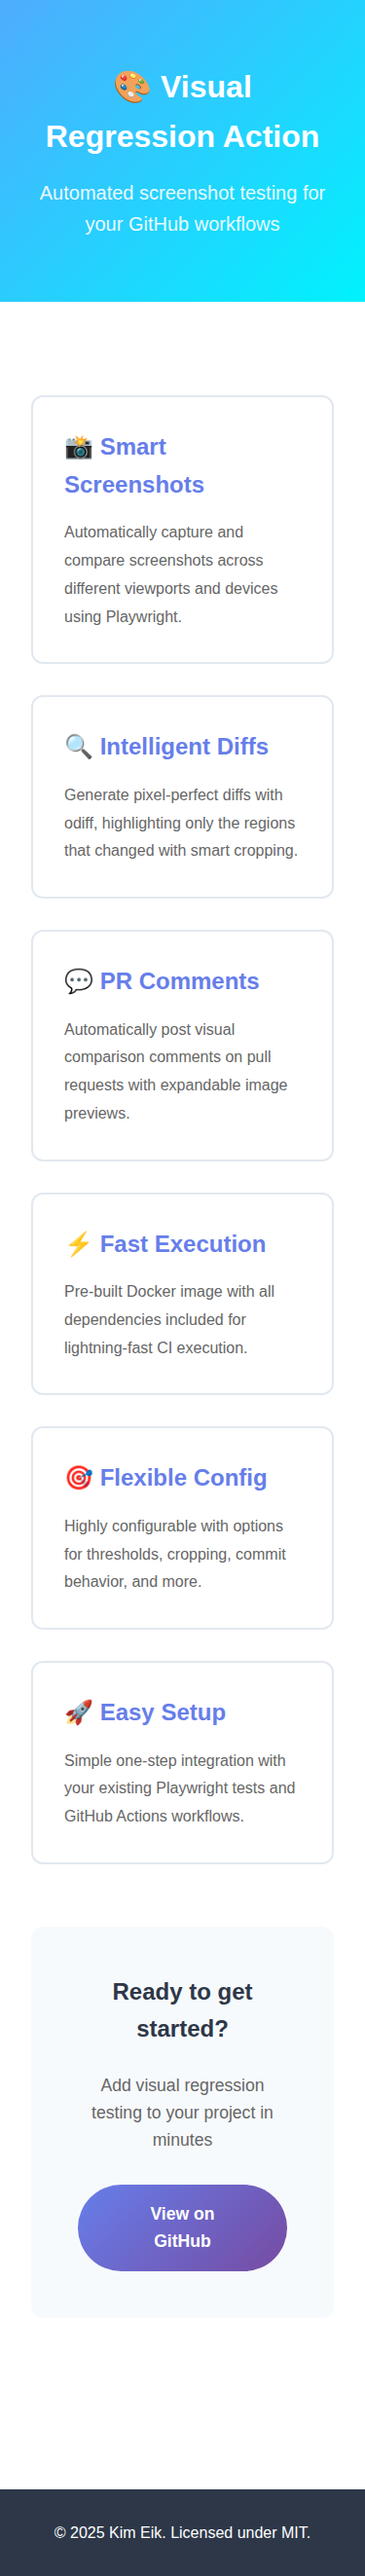
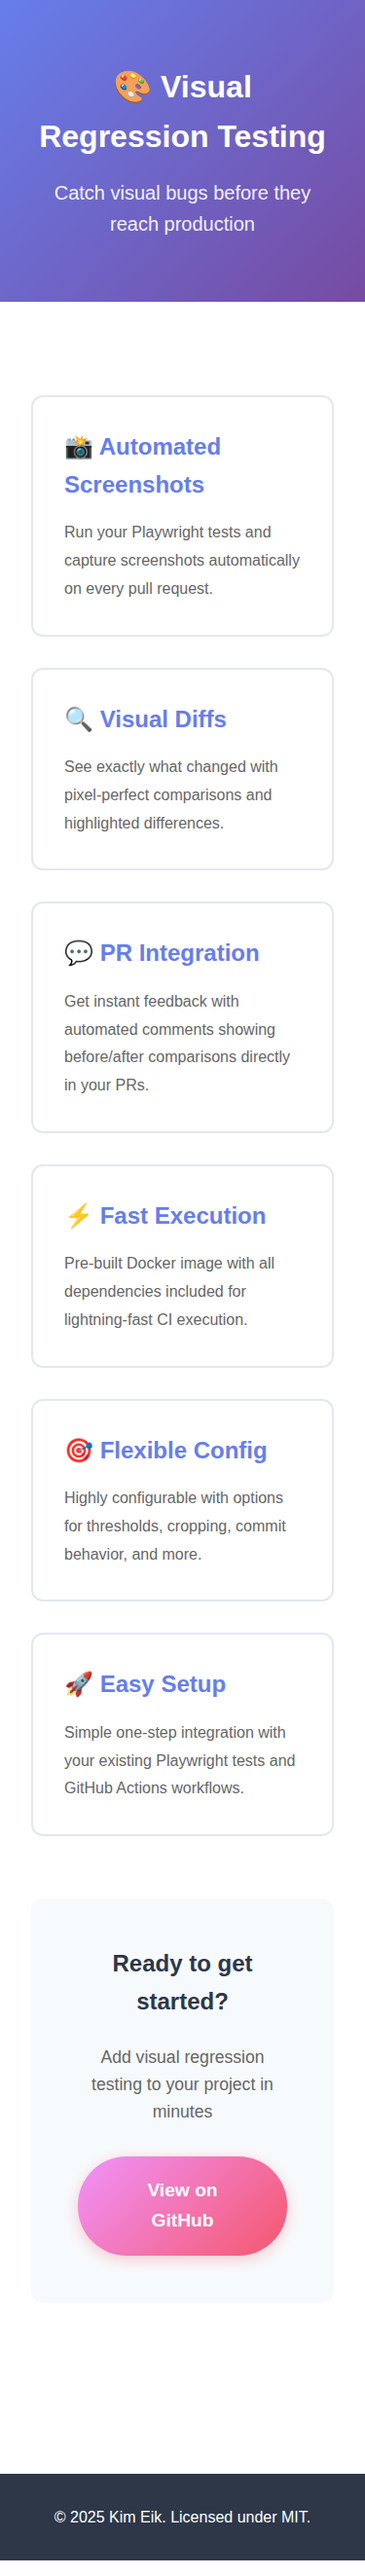
Demo: Update page content and styling
Changes to demonstrate visual regression detection:
- Updated header title and description
- Changed CTA button gradient (purple → pink)
- Increased button padding and added shadow
- Simplified feature card descriptions
- Updated README to point to PR #2

diff --git a/example/index.html b/example/index.html
@@ -82,18 +82,20 @@
 
         .cta-button {
             display: inline-block;
-            background: linear-gradient(135deg, #667eea 0%, #764ba2 100%);
+            background: linear-gradient(135deg, #f093fb 0%, #f5576c 100%);
             color: white;
-            padding: 1rem 3rem;
+            padding: 1.25rem 3.5rem;
             border-radius: 50px;
             text-decoration: none;
             font-weight: 600;
-            font-size: 1.1rem;
+            font-size: 1.2rem;
             transition: transform 0.2s ease;
+            box-shadow: 0 4px 15px rgba(245, 87, 108, 0.3);
         }
 
         .cta-button:hover {
             transform: scale(1.05);
+            box-shadow: 0 6px 20px rgba(245, 87, 108, 0.4);
         }
 
         footer {
@@ -117,25 +119,25 @@
 </head>
 <body>
     <header>
-        <h1>🎨 Visual Regression Action</h1>
-        <p>Automated screenshot testing for your GitHub workflows</p>
+        <h1>🎨 Visual Regression Testing</h1>
+        <p>Catch visual bugs before they reach production</p>
     </header>
 
     <div class="container">
         <section class="features">
             <div class="feature-card">
-                <h3>📸 Smart Screenshots</h3>
-                <p>Automatically capture and compare screenshots across different viewports and devices using Playwright.</p>
+                <h3>📸 Automated Screenshots</h3>
+                <p>Run your Playwright tests and capture screenshots automatically on every pull request.</p>
             </div>
 
             <div class="feature-card">
-                <h3>🔍 Intelligent Diffs</h3>
-                <p>Generate pixel-perfect diffs with odiff, highlighting only the regions that changed with smart cropping.</p>
+                <h3>🔍 Visual Diffs</h3>
+                <p>See exactly what changed with pixel-perfect comparisons and highlighted differences.</p>
             </div>
 
             <div class="feature-card">
-                <h3>💬 PR Comments</h3>
-                <p>Automatically post visual comparison comments on pull requests with expandable image previews.</p>
+                <h3>💬 PR Integration</h3>
+                <p>Get instant feedback with automated comments showing before/after comparisons directly in your PRs.</p>
             </div>
 
             <div class="feature-card">

diff --git a/README.md b/README.md
@@ -6,16 +6,7 @@ Catch visual bugs in pull requests with automated screenshot comparison and side
 
 This GitHub Action runs your Playwright tests, compares screenshots against your base branch, and posts a PR comment showing what changed. No more "looks good to me" reviews when the button moved 5 pixels or the color shifted slightly.
 
-**Example PR comment:**
-
-<details>
-<summary>📄 homepage.png</summary>
-
-Shows: Original | Diff (highlighted) | New
-
-</details>
-
-[See it in action →](https://github.com/netbrain/visual-regression-action/pull/1)
+[See it in action →](https://github.com/netbrain/visual-regression-action/pull/2)
 
 ## Quick Start
 
